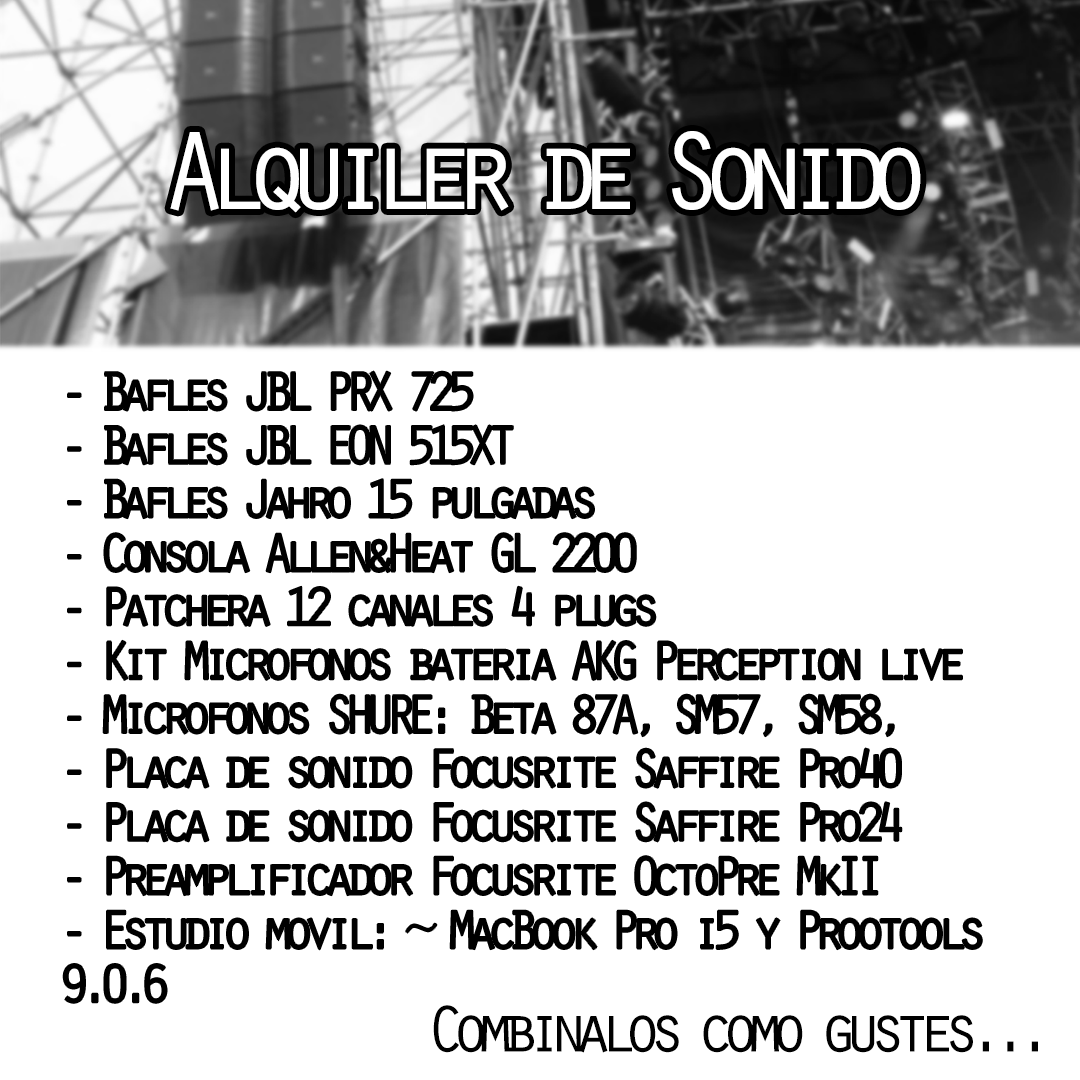
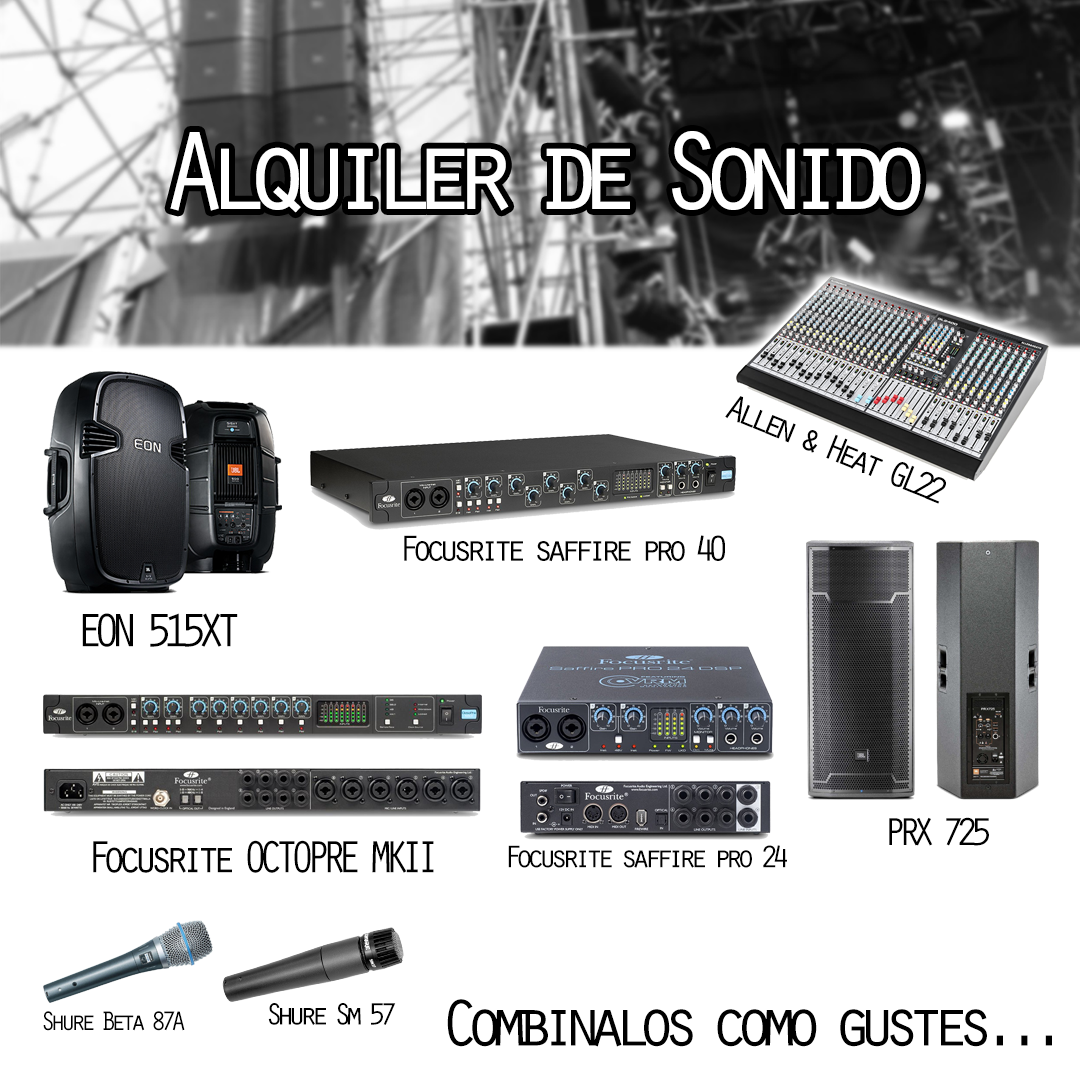
Add Sonido

diff --git a/epk/servicio-alquiler.html b/epk/servicio-alquiler.html
@@ -117,63 +117,167 @@
                     <br>
                     Ofrecemos un servicio personalizado amoldandonos a las necesidades del cliente.
                 </p>
-                <br>
-                <p class="text-center">
-                    <a class="btn btn-lg" href="#reserva">Hace tu Reserva</a>
-                </p>
             </div>
         </section>
 
 
-        <section>
+        <section class="bg-secondary">
             <div class="container">
-                <div class="row">
-                    <div class="col-sm-12">
-                        <div class="lightbox-grid square-thumbs sonido-gallery" data-gallery-title="Gallery">
-                            <ul>
-                                <li>
-                                    <a href="img/karol/alquiler/SonidoAdCombo1.png" data-lightbox="true">
-                                        <div class="background-image-holder">
-                                            <img alt="image" class="background-image" src="img/karol/alquiler/SonidoAdCombo1.png" />
-                                        </div>
-                                    </a>
-                                </li>
-                                <li>
-                                    <a href="img/karol/alquiler/SonidoAdCombo2.png" data-lightbox="true">
-                                        <div class="background-image-holder">
-                                            <img alt="image" class="background-image" src="img/karol/alquiler/SonidoAdCombo2.png" />
-                                        </div>
-                                    </a>
-                                </li>
-                                <li>
-                                    <a href="img/karol/alquiler/SonidoAdNewman.png" data-lightbox="true">
-                                        <div class="background-image-holder">
-                                            <img alt="image" class="background-image" src="img/karol/alquiler/SonidoAdNewman.png" />
-                                        </div>
-                                    </a>
-                                </li>
-                                <li>
-                                    <a href="img/karol/alquiler/SonidoAdAudioTechica.png" data-lightbox="true">
-                                        <div class="background-image-holder">
-                                            <img alt="image" class="background-image" src="img/karol/alquiler/SonidoAdAudioTechica.png" />
-                                        </div>
-                                    </a>
-                                </li>
-                            </ul>
-                        </div>
-                        <!--end of lightbox gallery-->
+                <div class="row masonry-loader">
+                    <div class="col-sm-12 text-center">
+                        <div class="spinner"></div>
                     </div>
                 </div>
-                <!--end of row-->
-                <div class="row">
-                    <div class="col-xs-12 text-center">
-                        <a class="btn btn-lg" href="#reserva">Hace tu Reserva</a>
+                <div class="row masonry mb40">
+                    <div class="col-sm-4 post-snippet masonry-item">
+                        <a href="#">
+                            <img alt="Post Image" src="img/karol/alquiler/SonidoAdCombo1.png" />
+                        </a>
+                        <div class="inner">
+                            <a href="#">
+                                <h5 class="mb0">Alquier de Sonido para eventos pequeños</h5>
+                            </a>
+                            <hr>
+                            <p>
+                                <ul class="lead" data-bullet="ti-check-box">
+                                    <li>Consola potenciada SXM-8200 de 6 Canales</li>
+                                    <li>3 pies de Micrófono</li>
+                                    <li>2 Shure SM 58</li>
+                                    <li>3 Samson R21</li>
+                                    <li>2 Cajas</li>
+                                </ul>
+                            </p>
+                            <a class="btn btn-sm" href="#reserva">Realizá tu Consulta</a>
+                        </div>
+                    </div>
+
+
+                    <div class="col-sm-4 post-snippet masonry-item">
+                        <a href="#">
+                            <img alt="Post Image" src="img/karol/alquiler/SonidoAdNewmanAudioTechnica.png" />
+                        </a>
+                        <div class="inner">
+                            <a href="#">
+                                <h5 class="mb0">Microfonos Condenser para Home Studio y Pre-Grabaciones</h5>
+                            </a>
+                            <hr>
+                            <p>
+                                El <b>TLM 102</b> es ideal para el sector de las grabaciones domésticas y estudios de proyectos, además de para el área broadcast,
+                                especialmente cuando son una prioridad líneas visuales despejadas a los oradores.
+                            </p>
+                            <p>
+                                El <b>AT2020</b> Diseñado para proporcionar versatilidad en las aplicaciones de grabación más exigentes,
+                                el modelo AT2020 tiene un patrón polar cardioide fijo para permitir el aislamiento de la
+                                fuente de sonido deseada. Cada aspecto del modelo AT2020 ha sido hecho a la medida para un
+                                sonido muy suave y natural mientras asegura la máxima exactitud, haciéndolo un complemento
+                                perfecto para el equipo de grabación digital de hoy día.
+                            </p>
+                            <a class="btn btn-sm" href="#reserva">Realizá tu Consulta</a>
+                        </div>
+                    </div>
+
+                    <div class="col-sm-4 post-snippet masonry-item">
+                        <a href="#">
+                            <img alt="Post Image" src="img/karol/alquiler/SonidoAdCombo2.png" />
+                        </a>
+                        <div class="inner">
+                            <a href="#">
+                                <h5 class="mb0">Alquier de Sonido para eventos grandes</h5>
+                            </a>
+                            <hr>
+                            <p>
+                            <ul class="lead" data-bullet="ti-check-box">
+                                <li>Bafles JBL PRX 725</li>
+                                <li>Bafles JBL EON 515XT</li>
+                                <li>Bafles Jahro 15 pulgadas</li>
+                                <li>Consola Allen&Heat GL 2200</li>
+                                <li>Patchera 12 canales 4 plugs</li>
+                                <li>Kit Microfonos bateria AKG Perception live</li>
+                                <li>Microfonos SHURE: Beta 87A, SM57, SM58, </li>
+                                <li>Placa de sonido Focusrite Saffire Pro40</li>
+                                <li>Placa de sonido Focusrite Saffire Pro24</li>
+                                <li>Preamplificador Focusrite OctoPre MkII</li>
+                                <li>Estudio movil: ~ MacBook Pro i5 y Prootools 9.0.6 </li>
+                            </ul>
+                            </p>
+                            <a class="btn btn-sm" href="#reserva">Realizá tu Consulta</a>
+                        </div>
+                    </div>
+                    <div class="col-sm-4 post-snippet masonry-item">
+                        <a href="#">
+                            <img alt="Post Image" src="img/karol/alquiler/PRX_725.jpg" />
+                        </a>
+                        <div class="inner">
+                            <a href="#">
+                                <h5 class="mb0">Caja PRX 735</h5>
+                            </a>
+                            <hr>
+                            <p>
+                                Caja de 2 vías todo-rango biamplificada con potencia Crown clase D con mezclador de 2
+                                entradas, ecualizador de 2 memorias Normal/Realzado y limitador dbx Type IV™.
+                                Entradas XLR/JACK y RCA. 2 woofer Differential Drive de ferrita 275 de 15" y driver
+                                2408H-2 de 1,5". Difusor de 90º x 50º. Potencia 1500W (3x500). Máximo SPL de 139dB.
+                                Respuesta en frecuencia de 49 Hz a 17 kHz.Dimensiones: 1070.4 x 445 x 538mm.
+                                Peso: 37,19 Kg.
+                            </p>
+                            <a class="btn btn-sm" href="#reserva">Realizá tu Consulta</a>
+                        </div>
+                    </div>
+
+                    <div class="col-sm-4 post-snippet masonry-item">
+                        <a href="#">
+                            <img alt="Post Image" src="img/karol/alquiler/ALLEN_&_HEAT_GL22.jpg" />
+                        </a>
+                        <div class="inner">
+                            <a href="#">
+                                <h5 class="mb0">ALLEN & HEATH GL2200</h5>
+                            </a>
+                            <hr>
+                            <p>
+                                Tiene 12 canales pero con todas las funciones de una consola grande.
+                                Preamplificadores de mic de alta gama, sonido inigualable.
+                                Las 12 entradas son mono (canon) y las últimas 2 tienen también entradas estéreo con plug.
+                                Phantom individuales en todos los canales.
+                                Salidas directas en todos los canales.
+                                Inserts en todos los canales.
+                                Faders largos.
+                                Ecualizadores semiparamétricos de 4 bandas.
+                                6 auxiliares switcheables pre-post.
+                                4 subgrupos con faders.
+                                Switcheable para usarse como consola de PA o monitores.
+                                Salida mono aparte del LR.
+                            </p>
+                            <a class="btn btn-sm" href="#reserva">Realizá tu Consulta</a>
+                        </div>
+                    </div>
+
+                    <div class="col-sm-4 post-snippet masonry-item">
+                        <a href="#">
+                            <img alt="Post Image" src="img/karol/alquiler/EON_515XT.jpg" />
+                        </a>
+                        <div class="inner">
+                            <a href="#">
+                                <h5 class="mb0">JBL EON 515XT</h5>
+                            </a>
+                            <hr>
+                            <p>
+                                450 watts RMS cada una.
+                                Cajas activas JBL eon 515 en impecable estado. Muy poco uso.
+                                Peso muy ligero (14,8 kg), ideal para poder transportar de una manera fácil y cómoda.
+                                Múltiples manijas con Recubrimiento de goma para transporte
+                                Crown ® Hybrid Clase-D
+                                3 Entradas En El mezclador.
+                                Entrada de Micrófono.
+                                Aplicaciones:
+                                Refuerzo de Sonido Directo y Voz (presentadores, cantantes o artistas, maestros).
+                                Amplificacion de Instrumentos Musicales (Electrónicos Teclados, guitarras acusticas y bajos, Metales y vientos, percusión).
+                            </p>
+                            <a class="btn btn-sm" href="#reserva">Realizá tu Consulta</a>
+                        </div>
                     </div>
                 </div>
             </div>
-            <!--end of container-->
         </section>
-
 
 
         <section class="page-title page-title-4 bg-secondary" id="otros-servicios">
@@ -289,13 +393,14 @@
             <div class="container">
                 <div class="row">
                     <div class="col-md-6">
-                        <h3 class="uppercase mb0 color-primary">Hace tu Reserva</h3>
+                        <h3 class="uppercase mb0 color-primary">Realizá tu Consulta</h3>
                     </div>
                 </div>
                 <!--end of row-->
             </div>
             <!--end of container-->
         </section>
+
         <section>
             <div class="col-md-8 col-md-offset-2 col-sm-10 col-sm-offset-1">
                 <div class="feature boxed bg-secondary">
